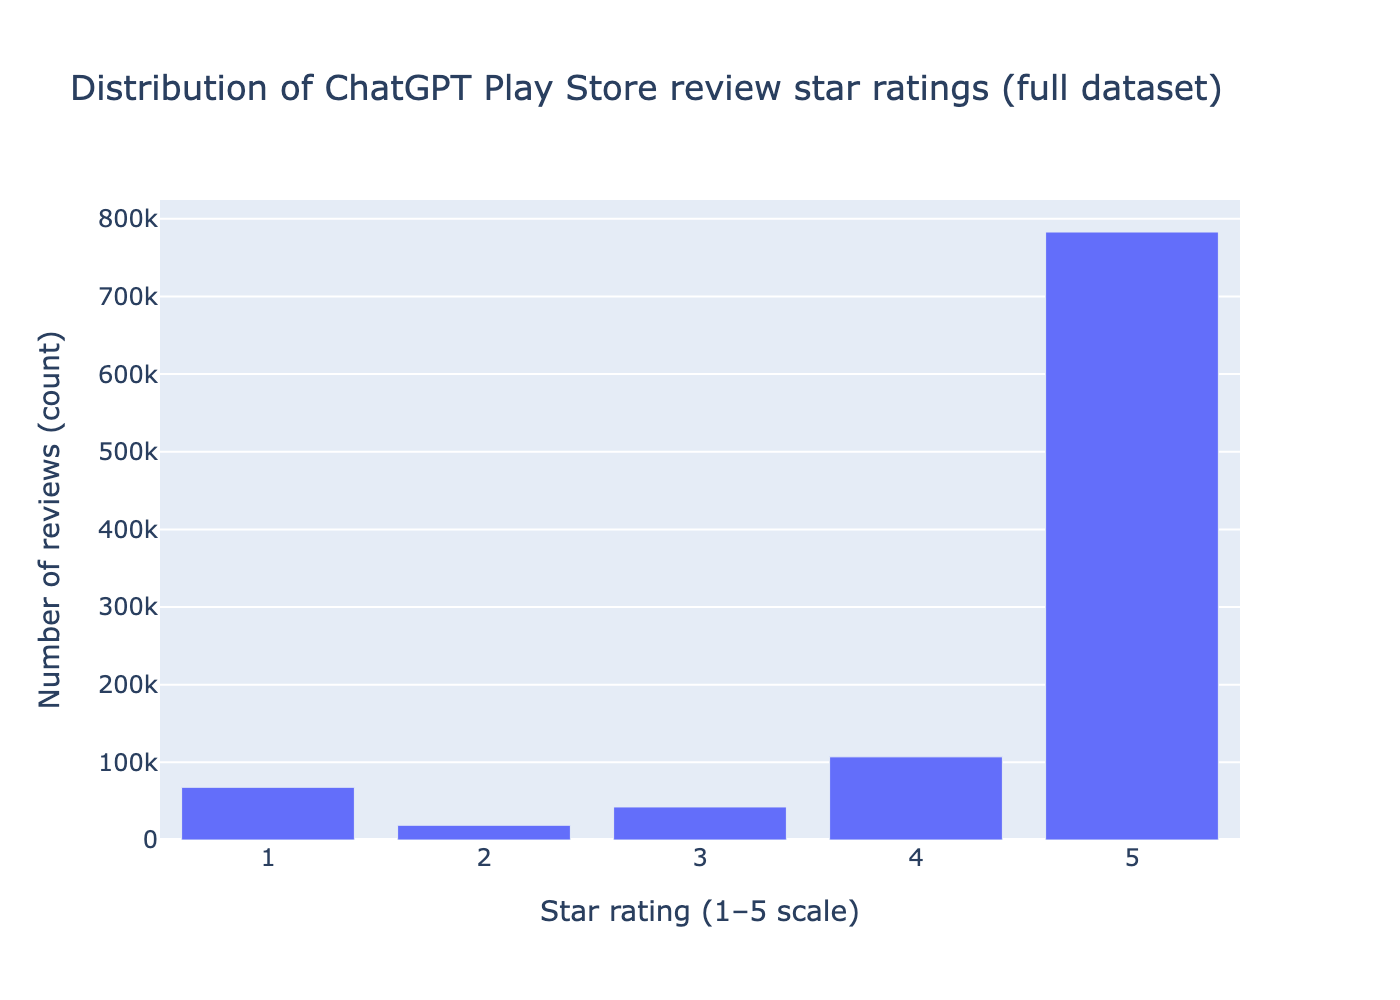
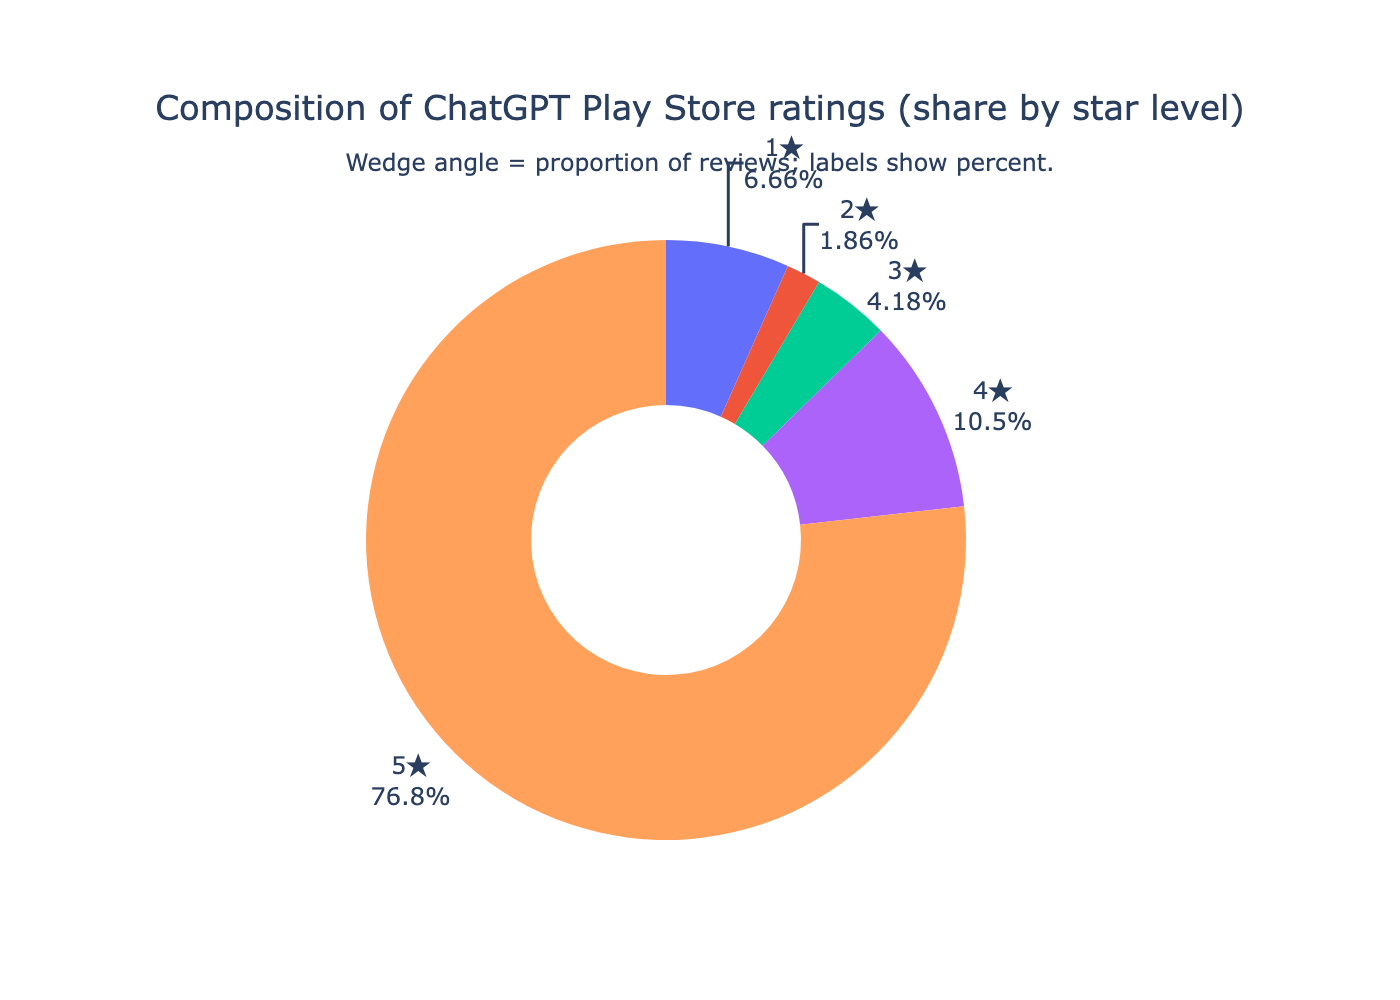
A6: switch to donut, line+scatter, and treemap Plotly charts (no all-bar).

diff --git a/A6/week6.md b/A6/week6.md
@@ -4,7 +4,7 @@
 **Analysis notebook:** [A6/mp1b_analysis.ipynb](https://github.com/AnsirU/hcde530/blob/main/A6/mp1b_analysis.ipynb)  
 **Static chart files (committed):**
 
-- [`chart1_rating_distribution.png`](https://github.com/AnsirU/hcde530/blob/main/A6/chart1_rating_distribution.png) — Question 1 (distribution of ratings).
+- [`chart1_rating_distribution.png`](https://github.com/AnsirU/hcde530/blob/main/A6/chart1_rating_distribution.png) — Question 1 (distribution / composition of ratings).
 - [`chart2_mean_thumbs_by_rating.png`](https://github.com/AnsirU/hcde530/blob/main/A6/chart2_mean_thumbs_by_rating.png) — Question 2 (engagement by rating).
 - [`chart3_missing_values_by_column.png`](https://github.com/AnsirU/hcde530/blob/main/A6/chart3_missing_values_by_column.png) — Question 3 (data completeness).
 
@@ -16,12 +16,10 @@
 
 ### Strong competency claim
 
-I used **vertical bar charts** for star-rating counts and for mean thumbs-up counts by rating because star ratings are a **small ordered discrete scale (1–5)** and bars make exact comparisons between levels easy—the audience can read magnitude at a glance without implying a continuous trend between unrelated stars.
+I used three **different Plotly representations** tied to MP1 questions (not repeating bar charts): a **donut pie (`go.Pie`, `hole≈0.45`)** for rating composition so **percentage-of-whole** is the headline read (skew toward 5★ is framed as proportional share), **`go.Scatter` in `lines+markers` mode** for mean thumbs-ups across the **ordinal 1–5 scale** so viewers judge **direction/flat trend** alongside exact means, and a **`plotly.express.treemap`** tiling missing-cell totals so dominant data-quality defects read as **area** comparisons across column names (`reviewCreatedVersion` / `appVersion` vs. scattered text gaps).
 
-I used a **horizontal bar chart** for missing-value counts **per column** because column names are long technical strings (`reviewCreatedVersion`, `appVersion`): horizontal orientation keeps labels readable without crowding or rotation.
+The line chart still shows **a relatively flat mean-thumbs trajectory** (`chart2_mean_thumbs_by_rating.png`) — I treat that as a **finding**, not filler: polarity and “helpful” engagement are loosely coupled here.
 
-Mean thumbs-up averages differ only slightly across star levels in this snapshot (**a relatively flat pattern**—see `chart2_mean_thumbs_by_rating.png`). I still treat that as a **finding**: the platform’s “helpful” signal does not strongly separate polarity here, which matters if I hoped engagement as a proxy for “visibility of complaints.”
+Notebook + exports: reproducible loaders and `write_image(...)` wiring live in **`A6/mp1b_analysis.ipynb`** with Markdown cells documenting chart-type rationale beside each plot.
 
-All three figures were generated in Plotly from the same reproducible pandas pipeline documented in **`A6/mp1b_analysis.ipynb`**, and exported to `.png` with Kaleido (`fig.write_image(...)`) so the visuals are reviewable outside the notebook.
-
-**Weak claim (avoid):** “I made charts in my notebook.” — This does not tie chart choice to structure, cite paths, or state what each figure argues.
+**Weak claim (avoid):** “I made charts in my notebook.” — Too vague; avoids linking question → geometry → takeaway.
